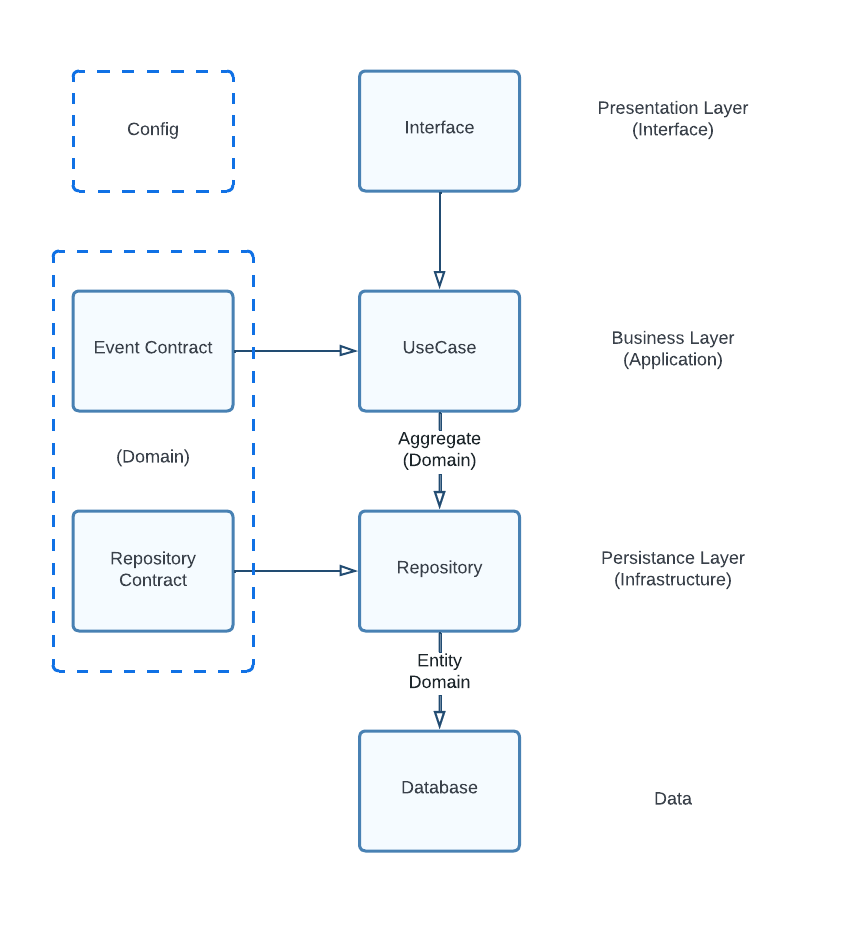
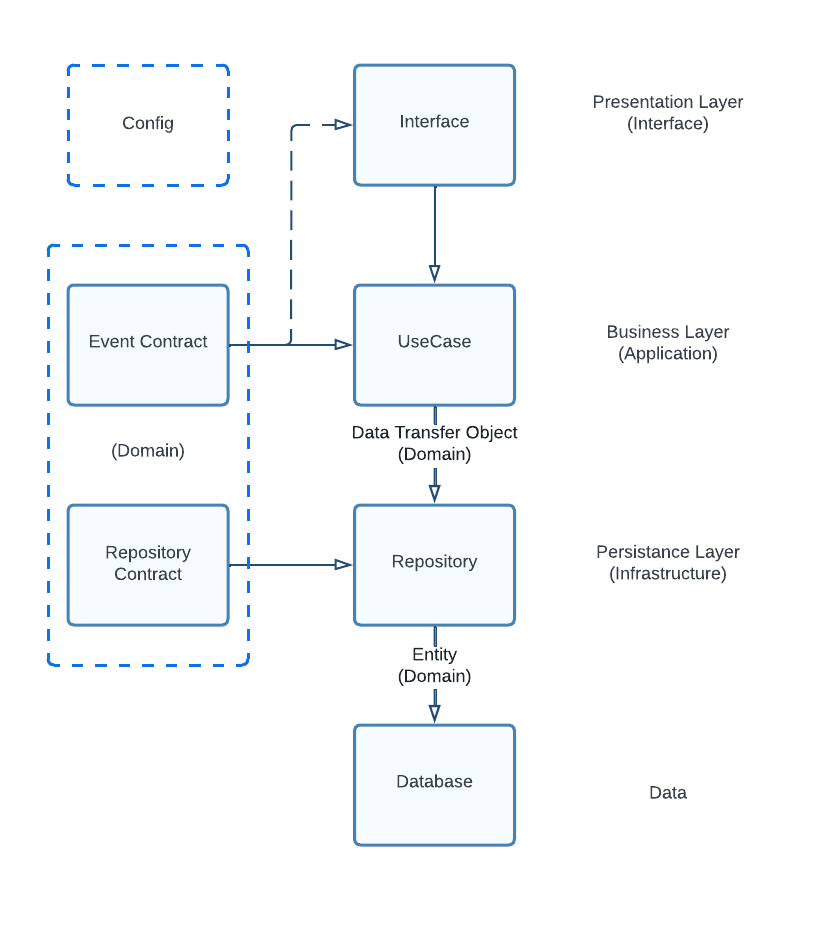
mod: architecture readme

diff --git a/README.md b/README.md
@@ -3,7 +3,7 @@
 This system are created to make the development and monitoring of IoT is more easier with flexible self-hosted visualizer data based on IoT device. 
 
 ## Architecture
-This system using layered architecture in general but also adapt concept of domain driven design to make it more readable, maintainable, and structured. The following picture represent the architecture.
+This system using clean architecture in general but also adapt some concepts and terms of domain driven design to make it more readable, maintainable, structured, and easy to explain. The following picture represent the architecture.
 ![architecture.png](architecture.png)
 
 ## Configuration
